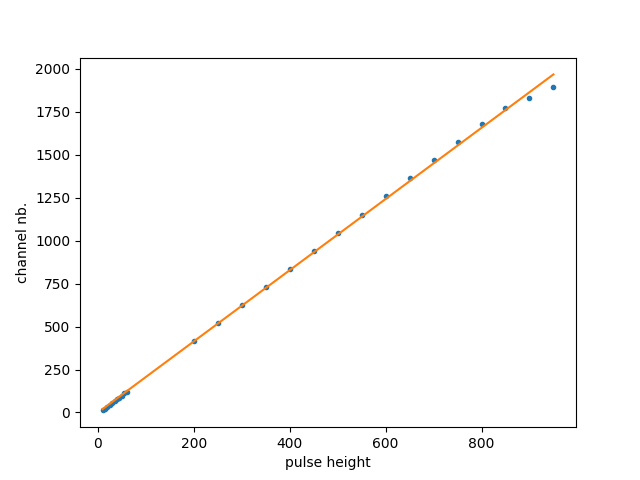
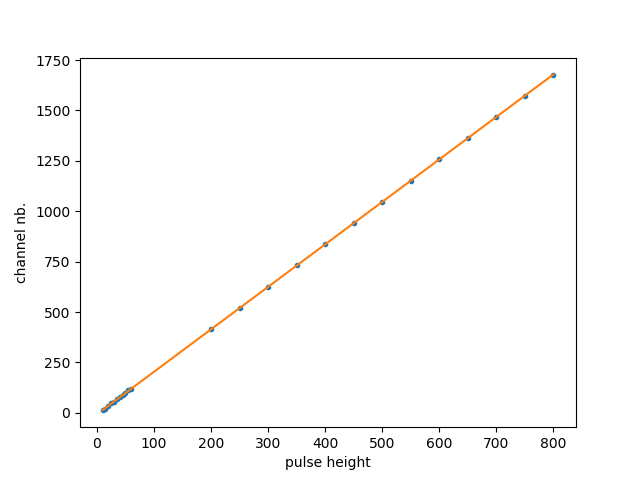
calibration plot

diff --git a/Lab3_Alpha/plot_calib.py b/Lab3_Alpha/plot_calib.py
@@ -10,10 +10,11 @@ p = np.polyfit(pulse_h, channel,1)
 fit = np.polyval(p, pulse_h)
 chisq = np.sum((channel-fit)**2/(len(channel)-2))
 print(chisq)
+print(p)
 
 plt.plot(pulse_h, channel, '.')
 plt.plot(pulse_h, fit)
 plt.xlabel('pulse height')
 plt.ylabel('channel nb.')
-plt.show()
-#plt.savefig('calibration_v1.png')
+#plt.show()
+plt.savefig('calibration_v1.png')

diff --git a/Lab3_Alpha/LabBook.md b/Lab3_Alpha/LabBook.md
@@ -20,5 +20,15 @@ __________
 * **16:35**: We finished calibrating (reached a saturation in our plot). We save a preliminary plot for the calibration as calibration_v1.png. We turn off all apparatus. We give back the Am source and we leave for the day. 
 
 
+11/03/2020
+__________
+* **14:20**: We fit a straight line to our calibration data points channel vs pulse from last time. By using a Chi Squared minimization, we drop our last 3 data points and get an estimate for the real zero of the line of -7.67216754 and the reduced Chi2 is 1.658089796546017. This was done with the plot_calib.py file. 
+	- Results 1.658089796546017
+	[ 2.10841569 -7.67216754]
+![Calibration plot](https://github.com/antoinebelley/Phys_359/blob/master/Lab3_Alpha/calibration_v1.png)
+
+* **14:37**: Saverio disappeared. We have to wait for him in order to create our Pb source. Hence, we use the Am source again to save a data of the spectrum which we will fit will gaussian peaks in order to be more precise. 
+
+
 
 
